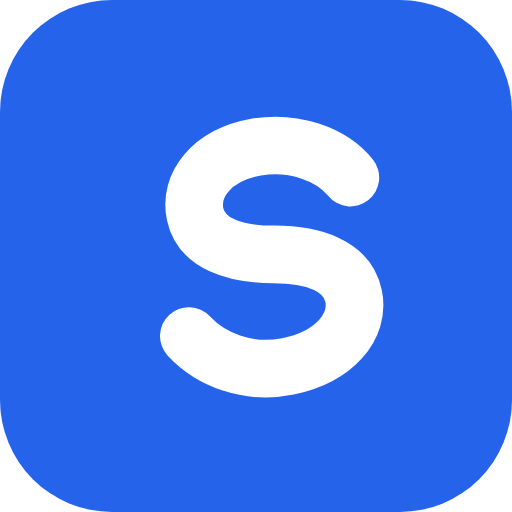
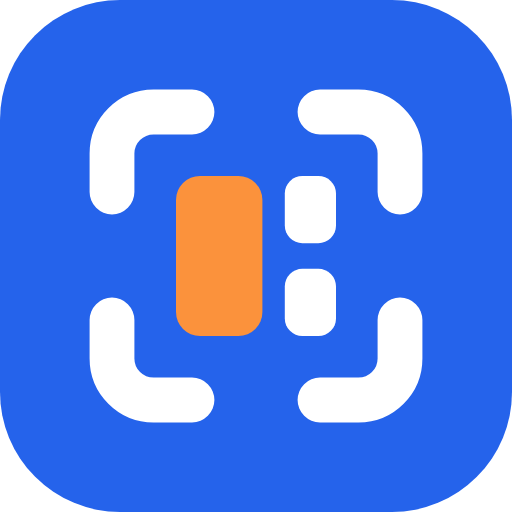
feat(brand): replace the S badge with the Rangka mark
- SerangkaiLogo follows the active theme's primary and accent colors
- new favicon, touch, PWA, and maskable icons
- manifest points the maskable entry at the maskable icon
- 1280x640 social preview in docs/media

diff --git a/app/layouts/default.vue b/app/layouts/default.vue
@@ -27,9 +27,9 @@
         <template #header="{ isCollapsed }">
           <div class="app-sidebar-head" :class="{ 'app-sidebar-head-collapsed': isCollapsed }">
             <STooltip v-if="isCollapsed" text="Serangkai" :content="{ side: 'right' }">
-              <NuxtLink to="/" class="app-brand" aria-label="Serangkai home"><span class="app-logo">S</span></NuxtLink>
+              <NuxtLink to="/" class="app-brand" aria-label="Serangkai home"><SerangkaiLogo /></NuxtLink>
             </STooltip>
-            <NuxtLink v-else to="/" class="app-brand" aria-label="Serangkai home"><span class="app-logo">S</span>Serangkai</NuxtLink>
+            <NuxtLink v-else to="/" class="app-brand" aria-label="Serangkai home"><SerangkaiLogo />Serangkai</NuxtLink>
           </div>
         </template>
         <template #default="{ isCollapsed }">
@@ -56,7 +56,7 @@
           </SDashboardSidebarToggle>
         </div>
         <header class="app-topbar app-topbar-private">
-          <NuxtLink to="/" class="app-brand" aria-label="Serangkai home"><span class="app-logo">S</span>Serangkai</NuxtLink>
+          <NuxtLink to="/" class="app-brand" aria-label="Serangkai home"><SerangkaiLogo />Serangkai</NuxtLink>
           <div class="flex items-center gap-1">
             <SButton variant="ghost" color="neutral" icon="lucide:search" aria-label="Search" @click="openPalette" />
             <SButton variant="ghost" color="neutral" icon="lucide:menu" aria-label="Open navigation" @click="navDrawer = true" />
@@ -77,7 +77,7 @@
 
     <template v-if="!appShell">
       <header class="app-topbar">
-        <NuxtLink to="/" class="app-brand" aria-label="Serangkai home"><span class="app-logo">S</span>Serangkai</NuxtLink>
+        <NuxtLink to="/" class="app-brand" aria-label="Serangkai home"><SerangkaiLogo />Serangkai</NuxtLink>
         <div class="flex min-w-0 items-center gap-1.5">
           <SSkeleton v-if="!ready" class="h-8 w-24" />
           <SButton v-else-if="route.path !== '/auth/login'" to="/auth/login" size="sm">Log in</SButton>
@@ -140,7 +140,6 @@ watch(() => route.path, () => { if (appShell.value) void storage.refresh() })
 .app-sidebar-head { display: flex; min-width: 0; align-items: center; justify-content: space-between; gap: .5rem; padding-left: .25rem; }
 .app-sidebar-head-collapsed { justify-content: center; padding-left: 0; }
 .app-brand { display: flex; align-items: center; gap: .6rem; min-width: 0; font-size: .95rem; font-weight: 700; letter-spacing: -.025em; white-space: nowrap; }
-.app-logo { display: grid; place-items: center; width: 1.75rem; height: 1.75rem; flex-shrink: 0; border-radius: .5rem; background: var(--selaras-resolved-color-primary-fill); color: var(--selaras-resolved-color-primary-on-fill); font-size: .85rem; }
 .app-sidebar-edge { display: none; }
 .app-sidebar-edge-button { position: absolute; top: 0; left: 0; display: grid; width: 1.5rem; height: 1.5rem; place-items: center; transform: translateX(-50%); border: 1px solid var(--selaras-resolved-border-default); border-radius: 9999px; background: var(--selaras-resolved-surface-default); color: var(--selaras-resolved-text-muted); box-shadow: 0 1px 2px rgb(0 0 0 / .08); transition: color 100ms, border-color 100ms; }
 .app-sidebar-edge-button:hover { border-color: var(--selaras-resolved-border-hover); color: var(--selaras-resolved-text-default); }

diff --git a/app/pages/share/[slug].vue b/app/pages/share/[slug].vue
@@ -8,7 +8,7 @@
       <div class="serangkai-shell share-header-row flex items-center justify-between gap-4">
         <div class="flex min-w-0 items-center gap-2.5">
           <NuxtLink to="/" class="flex shrink-0 items-center gap-2" aria-label="Serangkai home">
-            <span class="share-logo">S</span>
+            <SerangkaiLogo />
             <span class="hidden text-[.95rem] font-semibold tracking-tight sm:inline">Serangkai</span>
           </NuxtLink>
           <template v-if="rangka">
@@ -327,7 +327,6 @@ useHead(() => ({
    anchors, and contents rail all subtract it. */
 .share-page { --share-header-h: 3.5rem; }
 .share-header-row { height: var(--share-header-h); }
-.share-logo { display: grid; width: 1.75rem; height: 1.75rem; flex-shrink: 0; place-items: center; border-radius: .5rem; background: var(--selaras-resolved-color-primary-fill); color: var(--selaras-resolved-color-primary-on-fill); font-size: .85rem; font-weight: 700; }
 /* The header is sticky, so anchored headings need to stop below it instead of
    sliding underneath when a contents link is followed. */
 :deep(.selaras-prose :is(h1, h2, h3, h4)) {

diff --git a/app/components/SerangkaiLogo.vue b/app/components/SerangkaiLogo.vue
@@ -1,0 +1,19 @@
+<template>
+  <!-- The Serangkai mark: a frame (rangka) holding a set of pieces. Colors follow
+       the active theme, so it matches Rosé Pine, Flexoki, and the rest. -->
+  <svg class="serangkai-logo" viewBox="0 0 32 32" aria-hidden="true" focusable="false">
+    <g fill="none" stroke="var(--selaras-resolved-color-primary-fill)" stroke-width="4" stroke-linecap="round" stroke-linejoin="round">
+      <path d="M4 10.4V7a3 3 0 0 1 3-3h3.4" />
+      <path d="M21.6 4H25a3 3 0 0 1 3 3v3.4" />
+      <path d="M28 21.6V25a3 3 0 0 1-3 3h-3.4" />
+      <path d="M10.4 28H7a3 3 0 0 1-3-3v-3.4" />
+    </g>
+    <rect x="9" y="9" width="7.4" height="14" rx="2" fill="var(--selaras-resolved-color-accent-fill)" />
+    <rect x="18.4" y="9" width="4.6" height="6" rx="1.6" fill="var(--selaras-resolved-color-primary-fill)" />
+    <rect x="18.4" y="17" width="4.6" height="6" rx="1.6" fill="var(--selaras-resolved-color-primary-fill)" />
+  </svg>
+</template>
+
+<style scoped>
+.serangkai-logo { display: block; width: 1.75rem; height: 1.75rem; flex-shrink: 0; }
+</style>

diff --git a/app/error.vue b/app/error.vue
@@ -88,7 +88,7 @@ useHead(() => ({
       <header class="border-b border-[var(--selaras-resolved-border-default)]">
         <div class="serangkai-shell flex h-16 items-center justify-between gap-4">
           <NuxtLink to="/" class="flex items-center gap-2 rounded-md focus-visible:outline-offset-4" aria-label="Serangkai home">
-            <span class="grid size-8 shrink-0 place-items-center rounded-md bg-[var(--selaras-resolved-color-primary-fill)] text-sm font-bold text-[var(--selaras-resolved-color-primary-on-fill)]">S</span>
+            <SerangkaiLogo />
             <span class="truncate text-base font-semibold tracking-tight">Serangkai</span>
           </NuxtLink>
           <SColorModeToggle />
